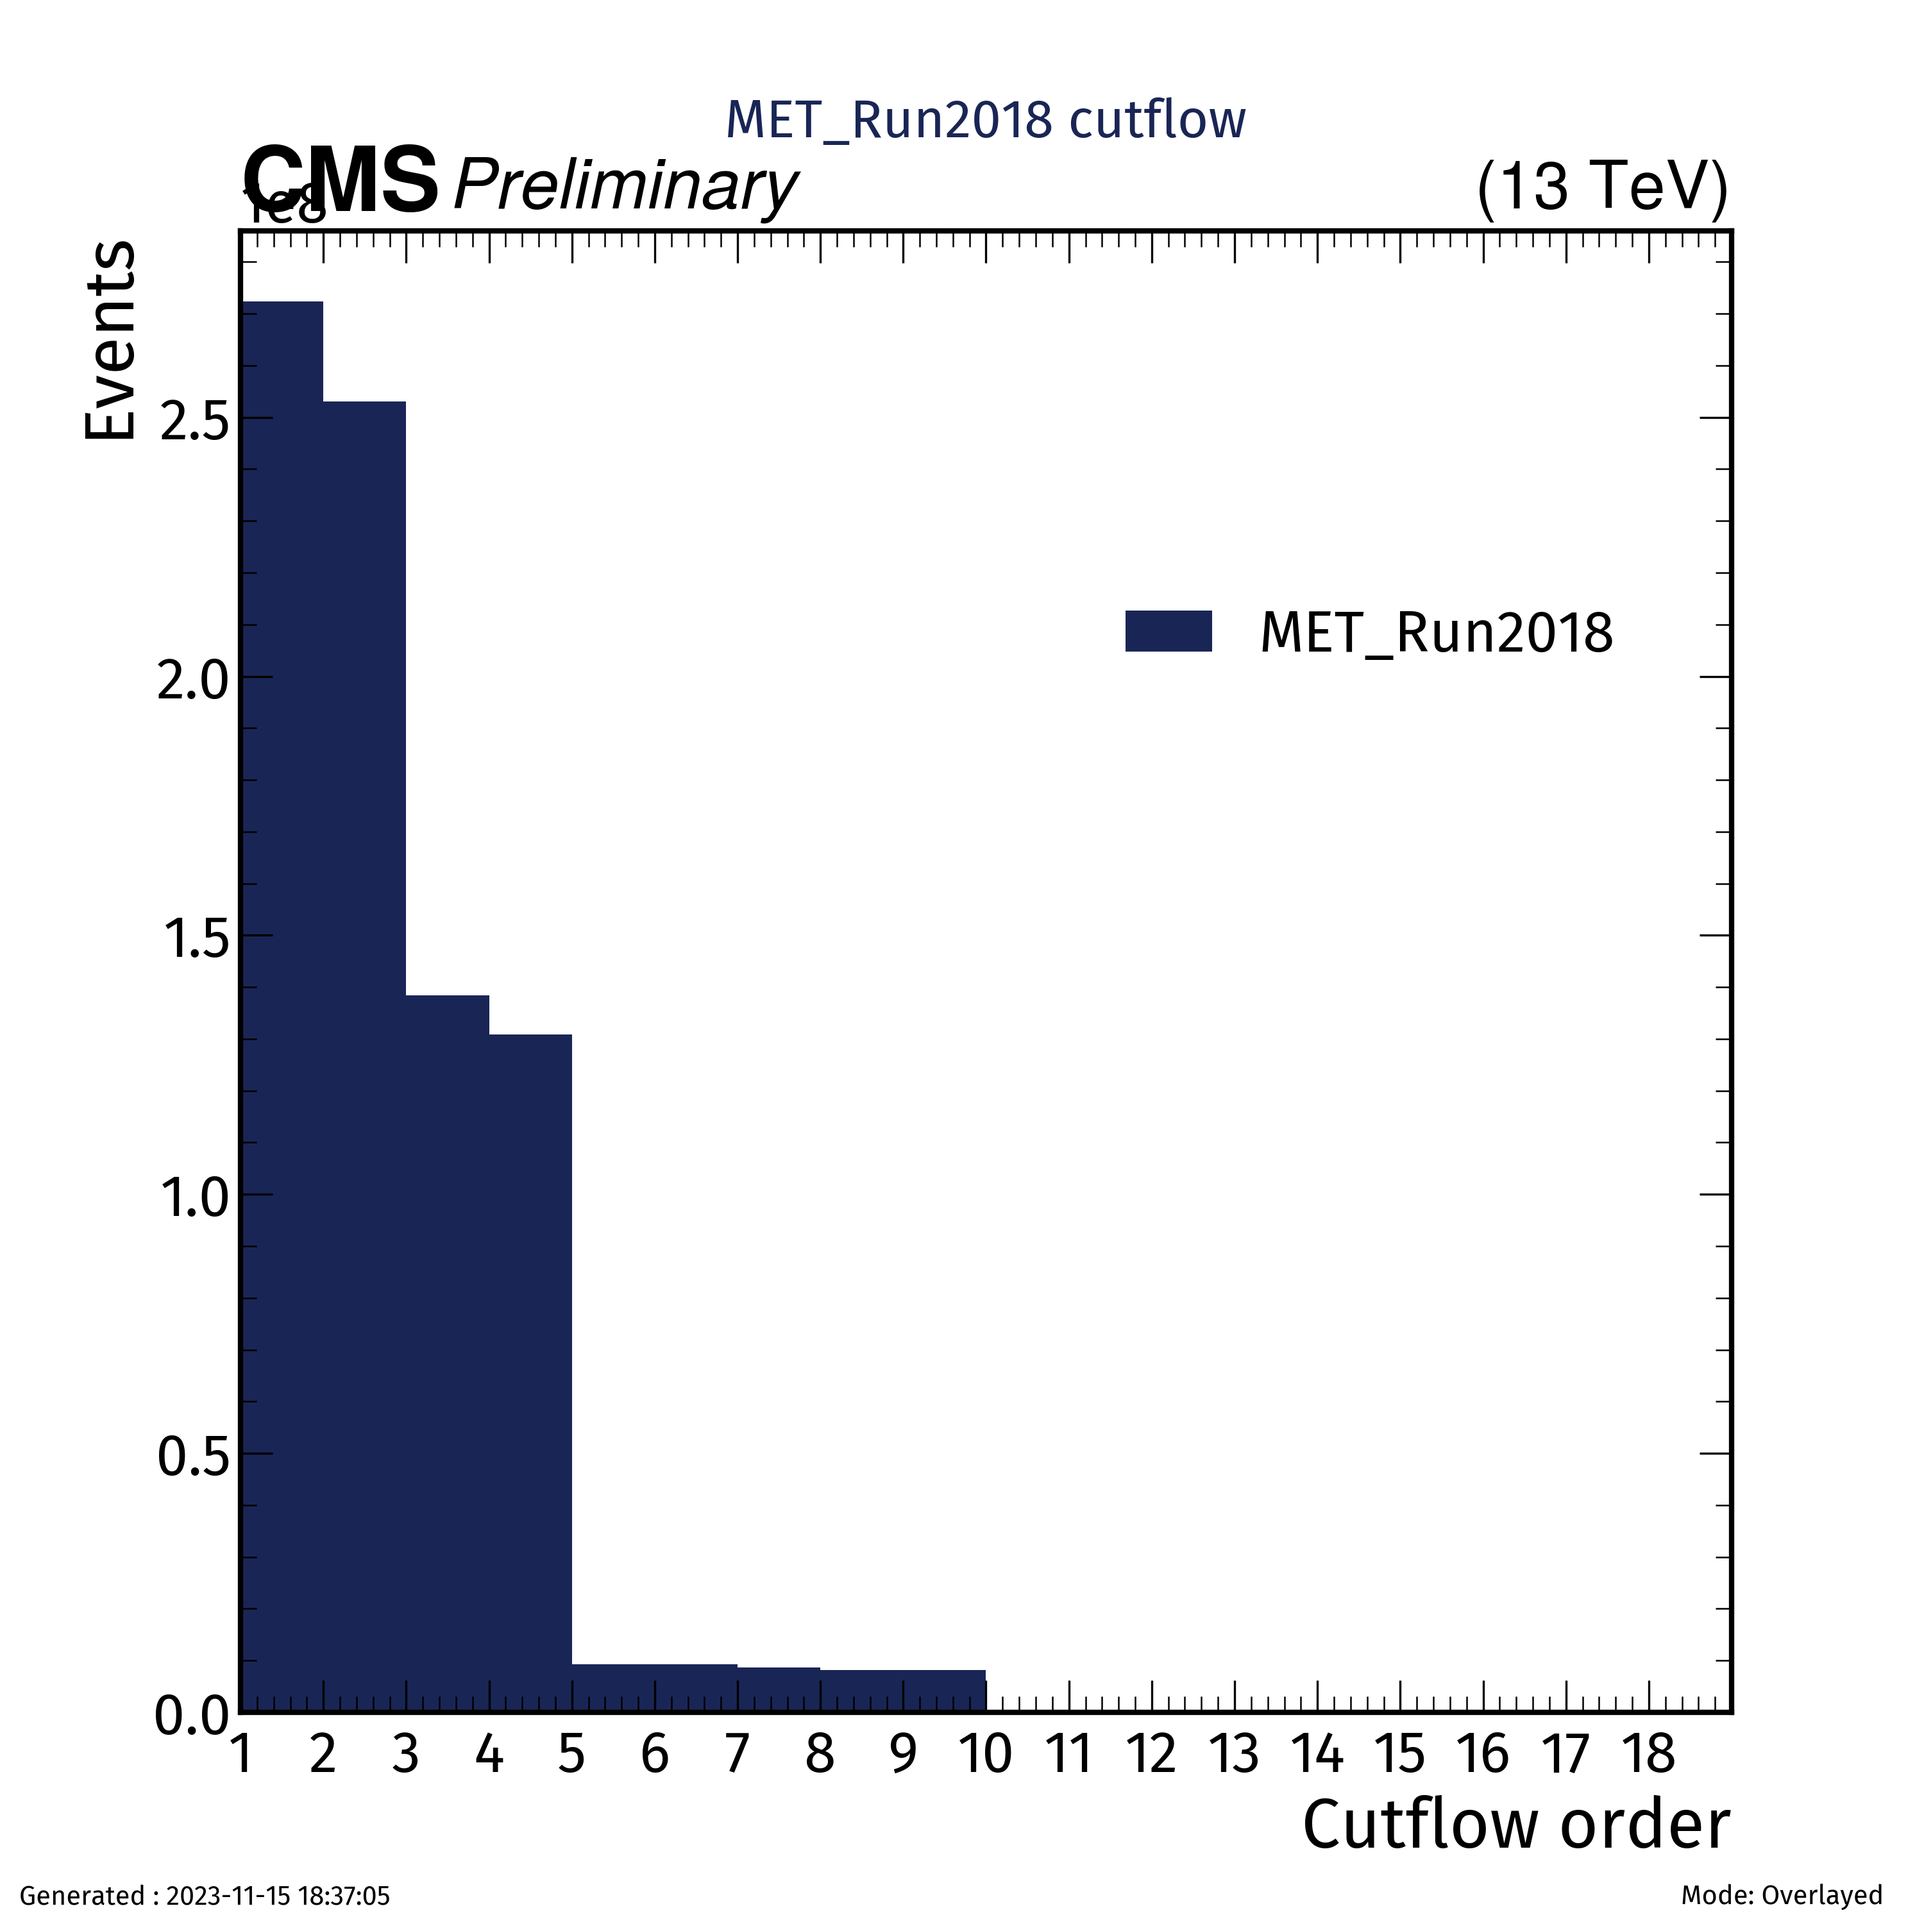
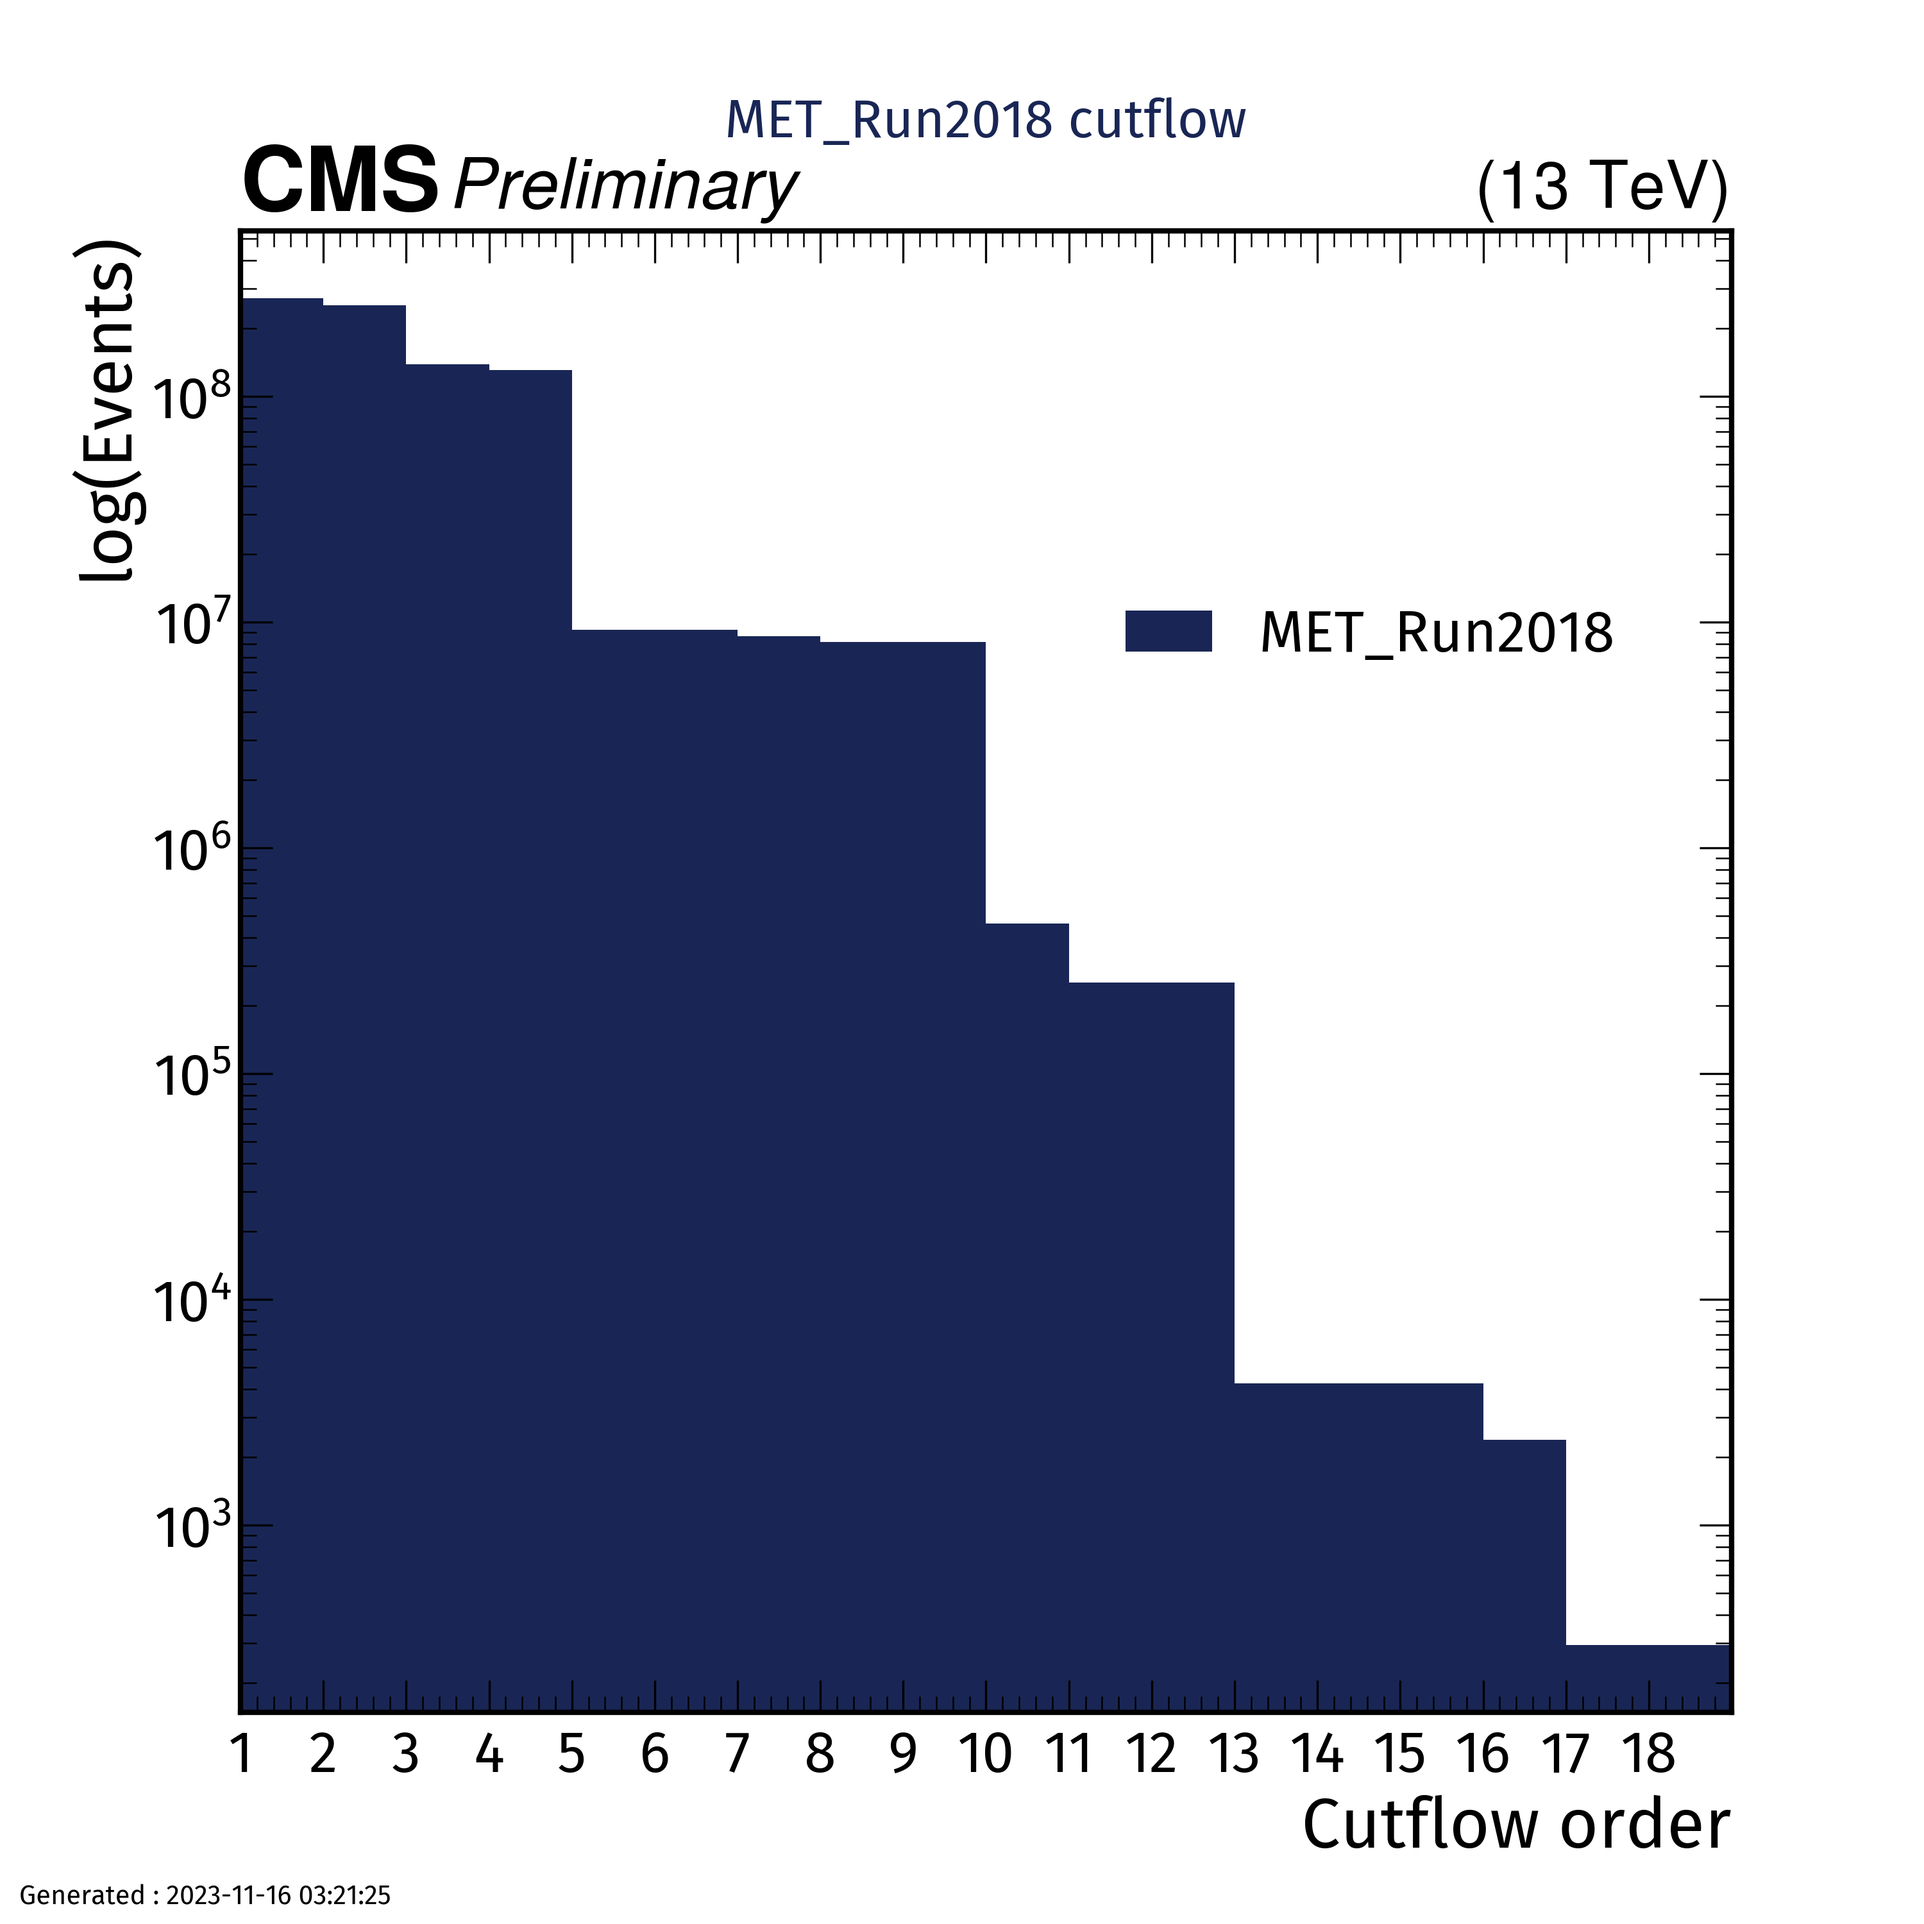
Automated Commit

diff --git a/Backgrounds/plotter_Zjetsnunu.py b/Backgrounds/plotter_Zjetsnunu.py
@@ -227,7 +227,7 @@ def combined_plot_manual(Output,norm = False , xsec = False):
 
 
     #normalize
-    norm_factor= 1.0
+    norm_factor = 1.0
     if norm :
         norm_factor= 1.0 / ( Data_hist.sum() + Zjets_hist.sum())
 
@@ -315,15 +315,15 @@ def plotcutflow(parent):
             )
 
         hep.cms.label("Preliminary", data= key.startswith("MET_Run"))
-        ax.set_ylabel("Events")
+        ax.set_ylabel("log(Events)")
         ax.set_xlabel("Cutflow order")
         plt.xlim([1,nbins+1])
         plt.xticks(np.arange(1,nbins+1,1))
         ax.set_title(f"{key} cutflow",pad=35,  fontsize= "20", color="#192655")
         fig.legend(loc= (0.57,0.64))
-        #plt.yscale("log")
+        plt.yscale("log")
         fig.text(0.01,0.01,"Generated : "+get_timestamp(), fontsize = "10")
-        fig.text(0.87,0.01," Mode: Overlayed", fontsize = "10")
+        #fig.text(0.87,0.01," Mode: Overlayed", fontsize = "10")
         #fig.legend(loc= (0.70,.91))
         #fig.legend(loc=1)
         plotname = f"Znunu_{key}_cutflow.png"
@@ -354,5 +354,5 @@ util.save(master_dict, "BackgroundDijets.coffea")
 #showinfo(master_dict)
 #plotall(master_dict)
 #combined_plot(master_dict)
-#combined_plot_manual(master_dict,norm=False, xsec=True)
+combined_plot_manual(master_dict,norm=False, xsec=True)
 plotcutflow(master_dict)
